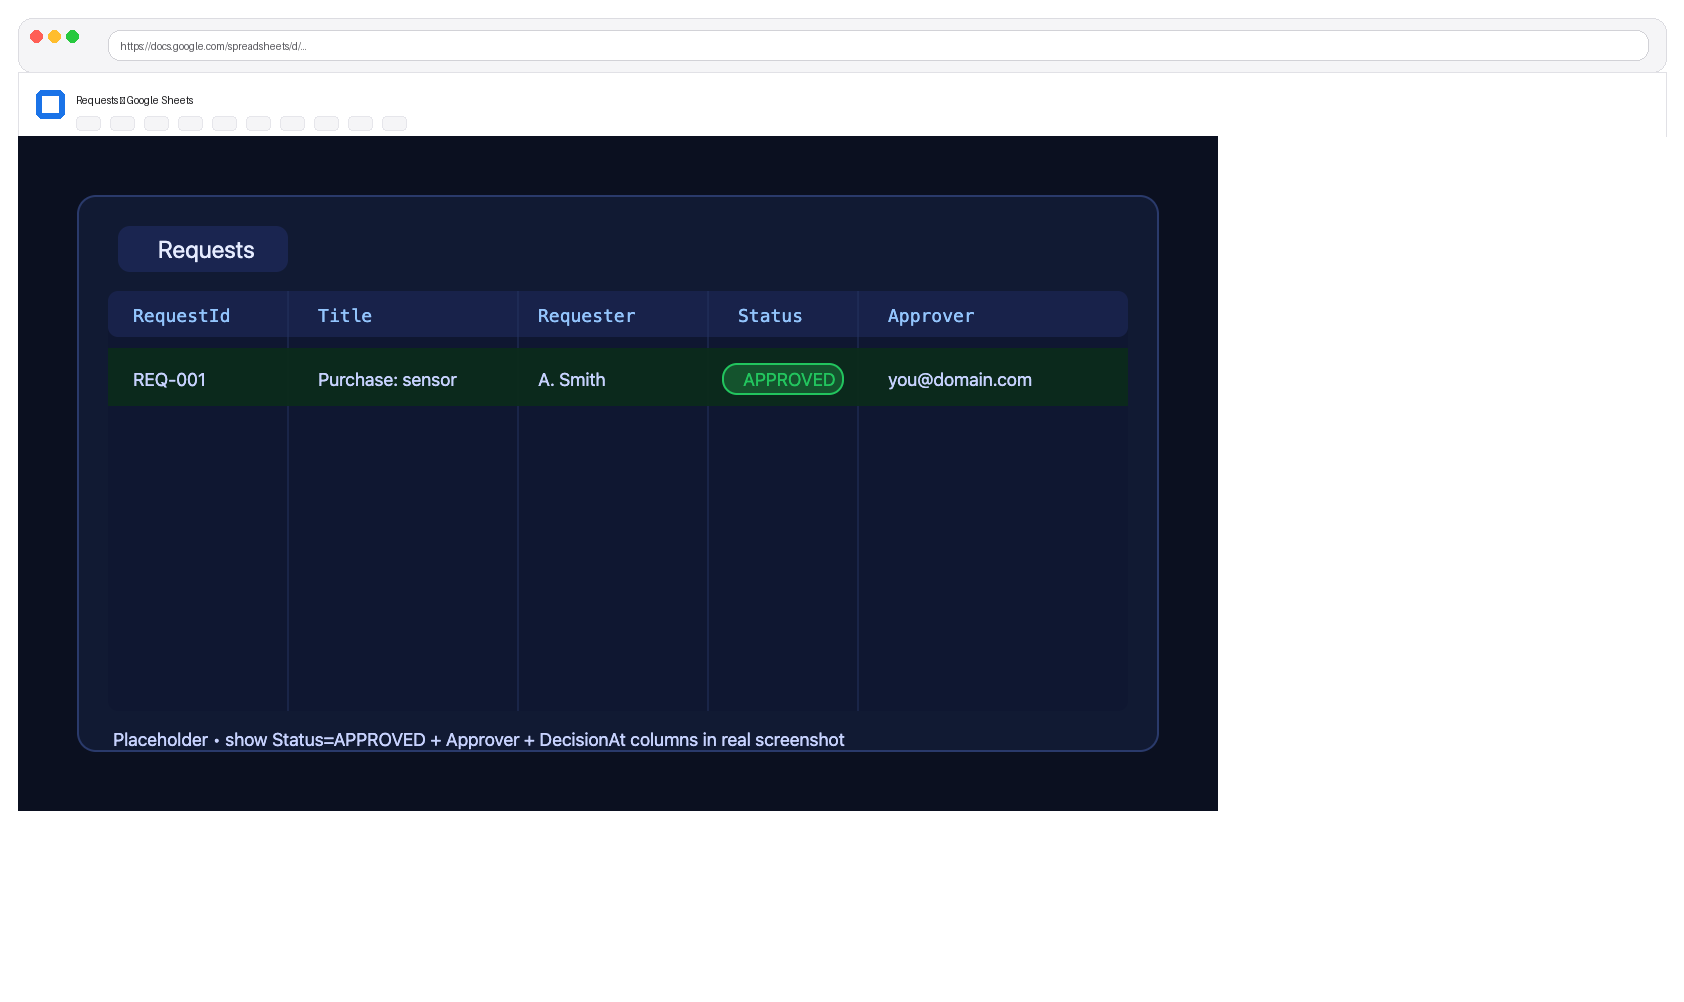
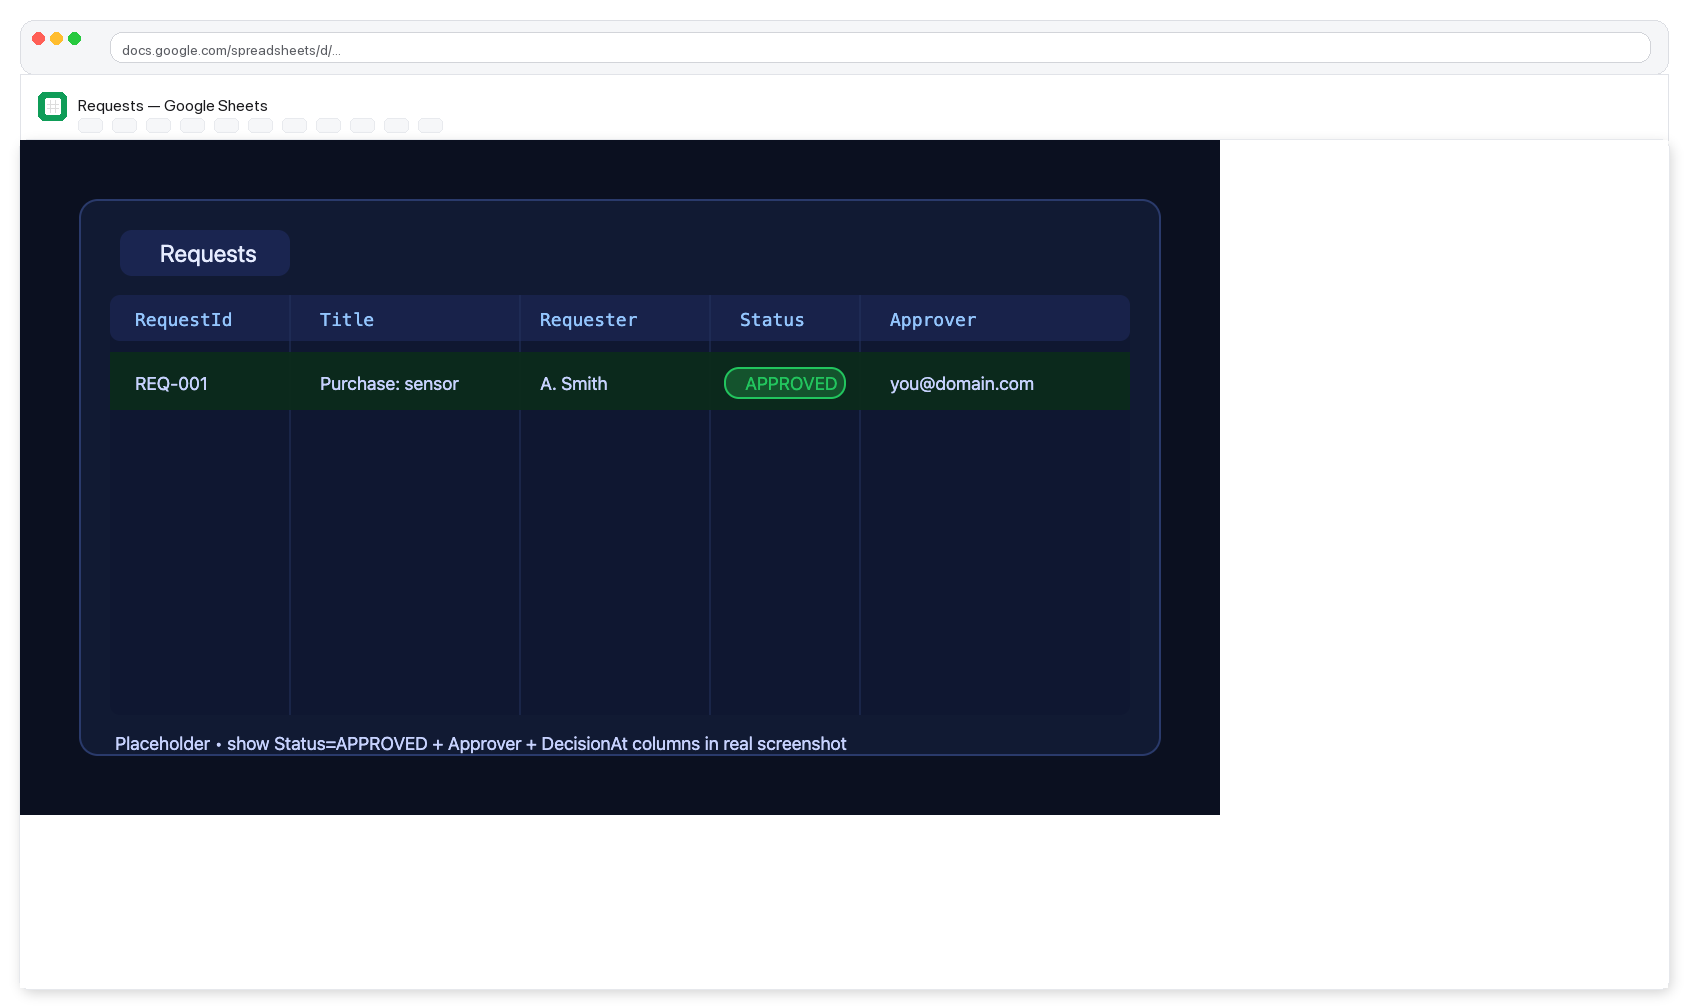
screenshots: improve real-ish generator + refresh images

diff --git a/scripts/generate_realish_screenshots.py b/scripts/generate_realish_screenshots.py
@@ -32,7 +32,7 @@ from pathlib import Path
 import argparse
 import subprocess
 
-from PIL import Image, ImageDraw, ImageFont
+from PIL import Image, ImageDraw, ImageFont, ImageFilter
 
 ROOT = Path(__file__).resolve().parents[1]
 TOP_DIR = ROOT / "docs" / "screenshots"
@@ -55,6 +55,31 @@ SHOTS: list[Shot] = [
 ]
 
 
+def load_font(size: int) -> ImageFont.ImageFont:
+    """Best-effort: use a system UI font if present; otherwise fall back."""
+
+    candidates = [
+        # macOS (common)
+        "/System/Library/Fonts/SFNS.ttf",
+        "/System/Library/Fonts/SFNSDisplay.ttf",
+        "/System/Library/Fonts/SFNSRounded.ttf",
+        "/System/Library/Fonts/Supplemental/Arial.ttf",
+        "/System/Library/Fonts/Supplemental/Helvetica.ttf",
+        # Linux-ish
+        "/usr/share/fonts/truetype/dejavu/DejaVuSans.ttf",
+    ]
+
+    for p in candidates:
+        try:
+            if Path(p).exists():
+                return ImageFont.truetype(p, size=size)
+        except Exception:
+            continue
+
+    # Fallback: PIL's bundled bitmap font
+    return ImageFont.load_default()
+
+
 def main() -> int:
     ap = argparse.ArgumentParser(description=__doc__)
     ap.add_argument(
@@ -66,11 +91,16 @@ def main() -> int:
 
     TOP_DIR.mkdir(parents=True, exist_ok=True)
 
-    # Fonts: use default bitmap font to avoid system dependencies.
-    font = ImageFont.load_default()
+    font_sm = load_font(14)
+    font_md = load_font(16)
 
     wrote = 0
     missing = 0
+
+    # Brand-ish colors
+    sheets_green = (15, 157, 88, 255)  # Google-ish green
+    chrome_bg = (245, 246, 248, 255)
+    chrome_border = (220, 222, 227, 255)
 
     for shot in SHOTS:
         in_path = PLACEHOLDER_DIR / shot.filename
@@ -83,22 +113,25 @@ def main() -> int:
 
         base = Image.open(in_path).convert("RGBA")
 
-        # Chrome sizes (in pixels)
-        pad = 18
+        # Layout sizes (in pixels)
+        pad = 20
         browser_h = 54
-        sheets_h = 64
+        sheets_h = 66
         header_h = browser_h + sheets_h
 
         w, h = base.size
-        canvas = Image.new("RGBA", (w + pad * 2, h + header_h + pad * 2), (255, 255, 255, 255))
+        out_w = w + pad * 2
+        out_h = h + header_h + pad * 2
+
+        canvas = Image.new("RGBA", (out_w, out_h), (255, 255, 255, 255))
         draw = ImageDraw.Draw(canvas)
 
-        # Browser chrome background
+        # --- Top browser chrome (rounded container) ---
         draw.rounded_rectangle(
             (pad, pad, pad + w, pad + browser_h),
             radius=14,
-            fill=(245, 245, 247, 255),
-            outline=(220, 220, 225, 255),
+            fill=chrome_bg,
+            outline=chrome_border,
             width=1,
         )
 
@@ -117,32 +150,76 @@ def main() -> int:
             (ab_x0, ab_y0, ab_x1, ab_y1),
             radius=12,
             fill=(255, 255, 255, 255),
-            outline=(210, 210, 215, 255),
+            outline=(210, 212, 217, 255),
             width=1,
         )
-        addr = "https://docs.google.com/spreadsheets/d/…"
-        draw.text((ab_x0 + 12, ab_y0 + 10), addr, fill=(90, 90, 95, 255), font=font)
+        addr = "docs.google.com/spreadsheets/d/…"
+        draw.text((ab_x0 + 12, ab_y0 + 9), addr, fill=(90, 92, 98, 255), font=font_sm)
 
-        # Fake Sheets toolbar area
+        # --- Fake Google Sheets header ---
         y2 = pad + browser_h
-        draw.rectangle((pad, y2, pad + w, y2 + sheets_h), fill=(255, 255, 255, 255), outline=(225, 225, 230, 255))
-        # Green Sheets icon
+        draw.rectangle(
+            (pad, y2, pad + w, y2 + sheets_h),
+            fill=(255, 255, 255, 255),
+            outline=(225, 227, 232, 255),
+        )
+
+        # Sheets icon (green doc w/ white grid)
         icon_x = pad + 18
         icon_y = y2 + 18
-        draw.rounded_rectangle((icon_x, icon_y, icon_x + 28, icon_y + 28), radius=6, fill=(26, 115, 232, 255))
-        draw.rectangle((icon_x + 6, icon_y + 6, icon_x + 22, icon_y + 22), fill=(255, 255, 255, 255))
+        draw.rounded_rectangle((icon_x, icon_y, icon_x + 28, icon_y + 28), radius=6, fill=sheets_green)
+        # White inner sheet
+        draw.rounded_rectangle(
+            (icon_x + 7, icon_y + 6, icon_x + 22, icon_y + 22),
+            radius=2,
+            fill=(255, 255, 255, 255),
+        )
+        # Tiny grid hint
+        for gx in [icon_x + 12, icon_x + 17]:
+            draw.line((gx, icon_y + 8, gx, icon_y + 20), fill=(220, 220, 220, 255), width=1)
+        for gy in [icon_y + 12, icon_y + 16]:
+            draw.line((icon_x + 9, gy, icon_x + 20, gy), fill=(220, 220, 220, 255), width=1)
 
         title = f"{shot.sheet_title} — Google Sheets"
-        draw.text((icon_x + 40, y2 + 22), title, fill=(25, 25, 28, 255), font=font)
+        draw.text((icon_x + 40, y2 + 21), title, fill=(25, 25, 28, 255), font=font_md)
 
-        # Subtle toolbar hint line (buttons)
+        # Subtle toolbar hint line (pill buttons)
         tool_y = y2 + 44
-        for i in range(10):
-            x0 = icon_x + 40 + i * 34
-            draw.rounded_rectangle((x0, tool_y, x0 + 24, tool_y + 14), radius=4, fill=(245, 245, 247, 255), outline=(230, 230, 235, 255))
+        x_start = icon_x + 40
+        for i in range(11):
+            x0 = x_start + i * 34
+            draw.rounded_rectangle(
+                (x0, tool_y, x0 + 24, tool_y + 14),
+                radius=5,
+                fill=(246, 247, 249, 255),
+                outline=(232, 234, 238, 255),
+            )
 
-        # Paste the content image
-        canvas.alpha_composite(base, (pad, pad + header_h))
+        # --- Content card shadow + base image ---
+        content_x = pad
+        content_y = pad + header_h
+
+        # Shadow layer
+        shadow = Image.new("RGBA", canvas.size, (0, 0, 0, 0))
+        sdraw = ImageDraw.Draw(shadow)
+        sdraw.rounded_rectangle(
+            (content_x + 2, content_y + 4, content_x + w + 2, content_y + h + 4),
+            radius=10,
+            fill=(0, 0, 0, 45),
+        )
+        shadow = shadow.filter(ImageFilter.GaussianBlur(radius=6))
+        canvas.alpha_composite(shadow)
+
+        # White card border behind content
+        draw.rounded_rectangle(
+            (content_x - 1, content_y - 1, content_x + w + 1, content_y + h + 1),
+            radius=10,
+            fill=(255, 255, 255, 255),
+            outline=(230, 232, 236, 255),
+            width=1,
+        )
+
+        canvas.alpha_composite(base, (content_x, content_y))
 
         # Save PNG
         canvas.convert("RGB").save(out_path, format="PNG", optimize=True)
@@ -155,12 +232,14 @@ def main() -> int:
 
     if args.optimize:
         try:
-            # Keep it best-effort: this is for convenience in local dev.
+            # Best-effort convenience.
             subprocess.run(["node", "scripts/optimize_screenshots.mjs"], cwd=ROOT, check=True)
         except FileNotFoundError:
             print("[optimize] Skipped: node not found")
         except subprocess.CalledProcessError as e:
-            print(f"[optimize] Failed (exit={e.returncode}). You can rerun manually: node scripts/optimize_screenshots.mjs")
+            print(
+                f"[optimize] Failed (exit={e.returncode}). You can rerun manually: node scripts/optimize_screenshots.mjs"
+            )
 
     print(f"\nDone. wrote={wrote}")
     return 0
